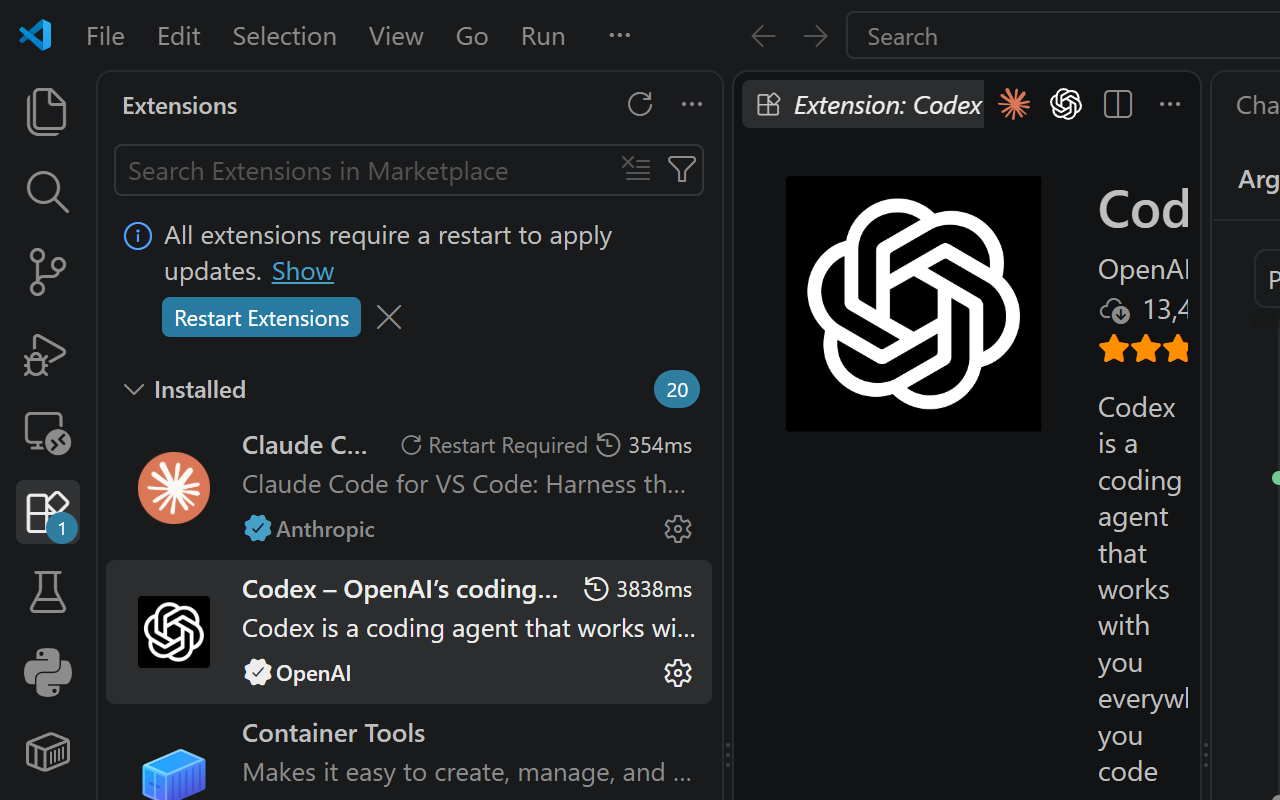
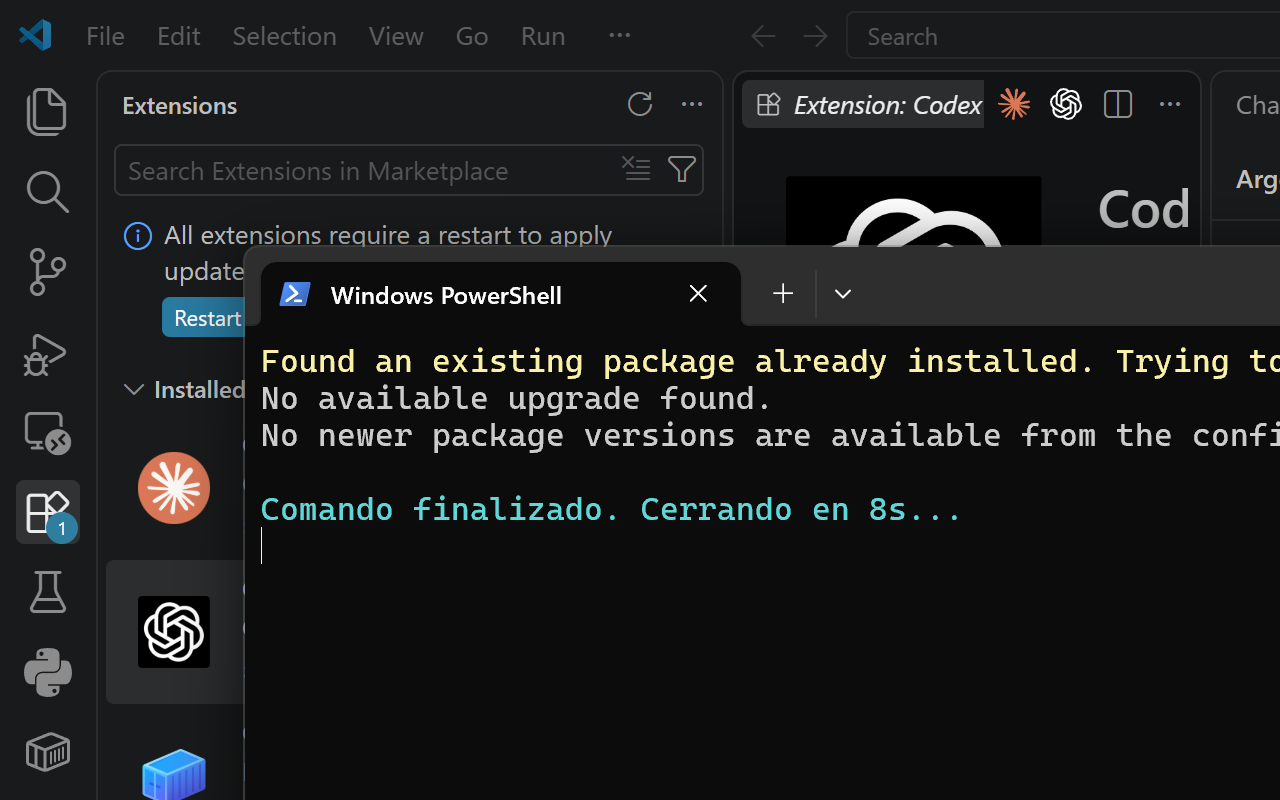
Replace evidence screenshots with real visible-terminal captures

diff --git a/run-logs/2026-08-25-part-0-before-you-begin/README.md b/run-logs/2026-08-25-part-0-before-you-begin/README.md
@@ -18,13 +18,13 @@ en un equipo Windows 11 real.
 
 ## Nota sobre las capturas de pantalla
 
-Las imágenes `.png` de esta carpeta son capturas reales de pantalla tomadas justo
-después de cada comando, pero **no muestran la consola con la salida del comando**:
-se tomaron mediante un proceso automatizado que no abre una ventana de terminal
-visible en el escritorio, por lo que solo capturan lo que estaba visible en pantalla
-(en este caso, VS Code) en ese instante. La evidencia real del resultado de cada
-comando está en los archivos `.log` de texto, que contienen la salida completa de
-`winget install`.
+Las imágenes `.png` de esta carpeta son capturas reales de pantalla de una ventana
+de PowerShell visible ejecutando cada comando (`winget install ...`) con su salida
+real. Se abrió una ventana de PowerShell nueva para cada comando, se esperó a que
+terminase y se capturó la pantalla completa con esa ventana en primer plano; por
+eso se ve parte del escritorio/VS Code detrás de la consola. Los archivos `.log`
+contienen la salida completa sin recortar, por si la ventana capturada no muestra
+todo el texto.
 
 ## Incidencia detectada
 
